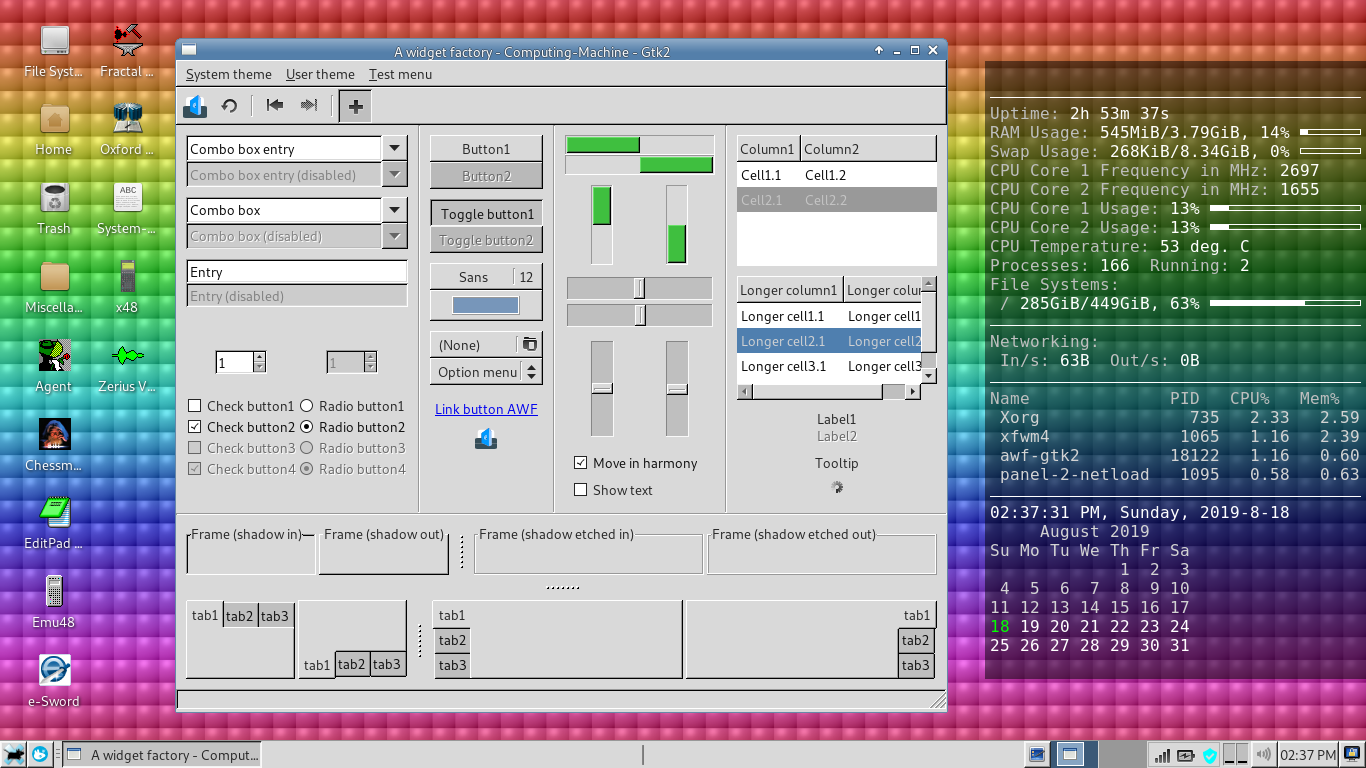
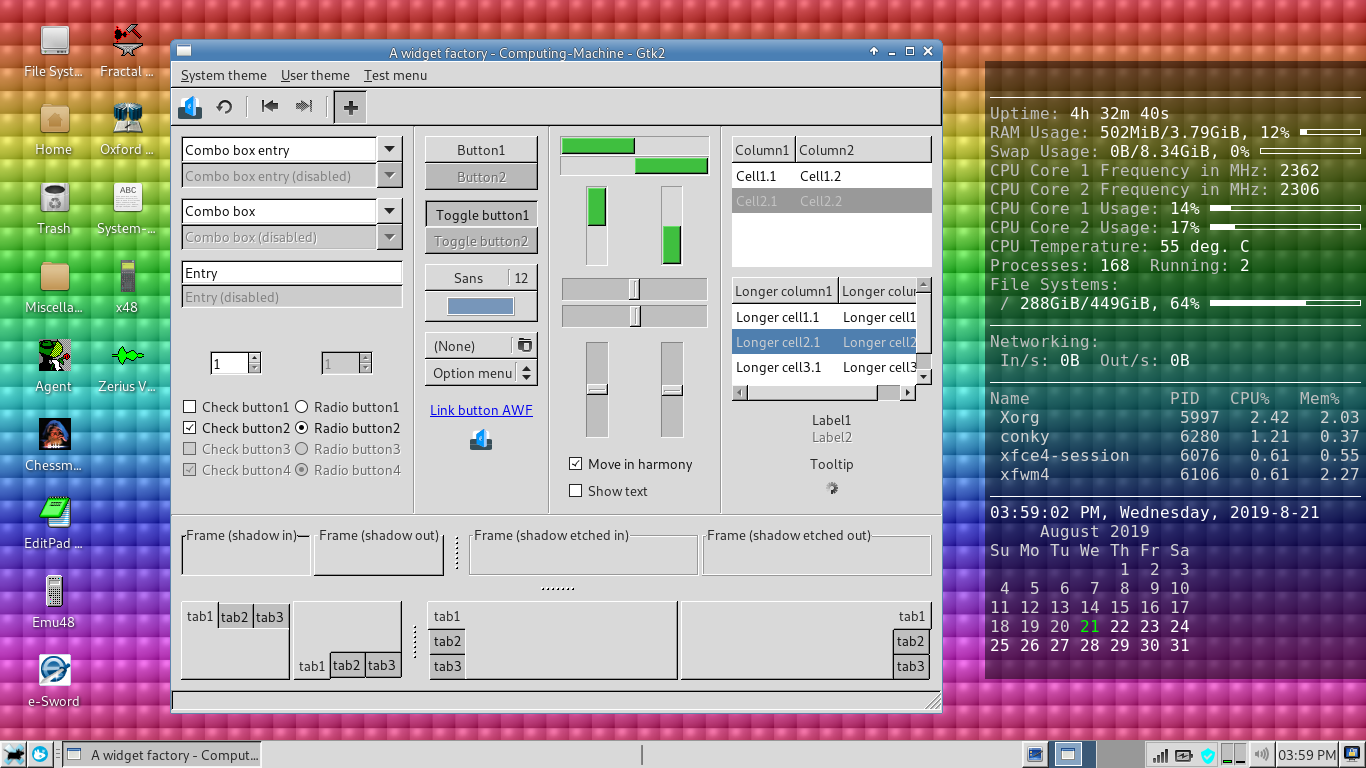
Additional commit

diff --git a/Computing-Machine/gtk-3.0/gtk.css b/Computing-Machine/gtk-3.0/gtk.css
@@ -61,6 +61,7 @@ color definitions
 /* widget colors */
 @define-color titlebar_bg_color #4a7fb4;
 @define-color titlebar_fg_color #ffffff;
+@define-color titlebar_inactive_color #b9b9b9;
 
 @define-color menubar_bg_color @dark_bg_color;
 @define-color menubar_fg_color @dark_fg_color;
@@ -624,7 +625,7 @@ calendar
 **********
 */
 calendar {
-  padding: 4px;
+  padding: 3px;
 }
 
 calendar:indeterminate {
@@ -636,7 +637,9 @@ calendar.header,
 calendar button,
 calendar button:hover,
 calendar button:disabled {
-  border-width: 0;
+  border-width: 1px;
+  border-style: solid;
+  border-color: #999999;
   background-color: transparent;
   background-image: none;
 }
@@ -1793,18 +1796,8 @@ scale.vertical slider {
   min-width: 21px;
 }
 
-scale slider:disabled {
-  border-radius: 0px;
-  background-image: url("assets/slider-horiz.png");
-}
-
 /* vertical sliders */
 scale.vertical slider {
-  border-radius: 0px;
-  background-image: url("assets/slider-vert.png");
-}
-
-scale.vertical slider:disabled {
   border-radius: 0px;
   background-image: url("assets/slider-vert.png");
 }
@@ -1824,24 +1817,16 @@ scale marks {
 
 scale marks.top,
 scale.fine-tune marks.top {
-  margin-bottom: 6px;
   margin-top: -12px;
+  margin-bottom: 6px;
+  margin-left: -12px;
+  margin-right: 6px;
 }
 
 scale marks.bottom,
 scale.fine-tune marks.bottom {
   margin-top: 6px;
   margin-bottom: -12px;
-}
-
-scale marks.top,
-scale.fine-tune marks.top {
-  margin-right: 6px;
-  margin-left: -12px;
-}
-
-scale marks.bottom,
-scale.fine-tune marks.bottom {
   margin-left: 6px;
   margin-right: -12px;
 }
@@ -1858,6 +1843,7 @@ scale.vertical indicator {
 
 scale trough {
   padding: 0;
+  margin: 9px 6px;
   border-width: 1px;
   border-radius: 0px;
   border-style: solid;
@@ -1871,15 +1857,10 @@ scale trough {
     inset 0 1px @inset_dark,
     inset -1px 0 @inset_light,
     inset 0 -1px @inset_light;
-  margin: 9px 6px;
 }
 
 scale trough.vertical {
   margin: 6px 9px;
-}
-
-scale highlight {
-  background-color: transparent;
 }
 
 scale trough:disabled,
@@ -1892,6 +1873,11 @@ scale highlight:disabled {
     inset 0 1px @inset_dark,
     inset -1px 0 @inset_light,
     inset 0 -1px @inset_light;
+}
+
+/* this affects the left side of the scale trough: */
+scale highlight {
+  background-color: transparent;
 }
 
 /*
@@ -1971,7 +1957,7 @@ scrollbar.horizontal button.up {
   -gtk-icon-source: -gtk-icontheme("pan-start-symbolic");
 }
 
-/* affects the Pamac package-manager's main-window (i.e., programs list) vertical scrollbar */
+/* affects the Whisker Menu's main-window (i.e., programs list) vertical scrollbar */
 treeview ~ scrollbar.vertical {
   border-top: 1px solid transparent;
   margin-top: -1px;
@@ -3223,13 +3209,11 @@ headerbar .subtitle {
 }
 
 headerbar .title:backdrop,
-headerbar .subtitle:backdrop {
-  text-shadow: none;
-}
-
+headerbar .subtitle:backdrop,
 .titlebar:backdrop,
 headerbar.titlebar:backdrop {
-  color: mix(@titlebar_fg_color, @titlebar_bg_color, 0.4);
+  background-color: @titlebar_inactive_color;
+  color: #656565;
   text-shadow: none;
 }
 
@@ -3259,22 +3243,8 @@ headerbar.titlebar:backdrop {
   font-weight: bold;
 }
 
-decoration {
-  border-style: none;
-  border-radius: 0;
-  box-shadow: 0 3px 7px 1px alpha(black, 0.7);
-  /* this is used for the resize cursor area: */
-  margin: 10px;
-}
-
 .tiled decoration {
   border-radius: 0;
-}
-
-/* server-side decoration (SSD) */
-.ssd decoration,
-.ssd decoration:backdrop {
-  background-color: @titlebar_bg_color;
 }
 
 /* client-side decorations (CSD) */
@@ -3284,22 +3254,16 @@ tooltip {
   box-shadow: none;
 }
 
-/* controls shadows around windows: */
+/* controls borders/shadows around windows: */
 decoration {
-  border-width: 0px;
-  box-shadow:
-    0 3px 9px 1px transparent,
-    0 0 0 1px rgba(0, 0, 0, 0.23);
-  margin: 10px;
+  margin: 1px;
+  border: none;
+  box-shadow: 0 0 0 1px @titlebar_bg_color;
 }
 
-/* controls shadows around windows: */
+/* controls borders/shadows around windows: */
 decoration:backdrop {
-  box-shadow:
-    0 3px 9px 1px transparent,
-    0 2px 6px 2px rgba(0, 0, 0, 0),
-    0 0 0 1px rgba(0, 0, 0, 0.18);
-  transition: 200ms ease-out;
+  box-shadow: 0 0 0 1px @titlebar_inactive_color;
 }
 
 .tiled decoration,
@@ -3313,15 +3277,19 @@ decoration:backdrop {
   box-shadow: none;
 }
 
-.ssd decoration {
+/* server-side decoration (SSD) */
+.ssd decoration,
+.ssd decoration:backdrop {
+  background-color: @titlebar_bg_color;
   border-radius: 0 0 0 0;
   box-shadow: 0 0 0 1px rgba(0, 0, 0, 0.23);
 }
 
+/* controls borders/shadows around pop-up menus: */
 .csd.popup decoration {
-  box-shadow:
-    0 1px 2px rgba(0, 0, 0, 0.2),
-    0 0 0 1px rgba(0, 0, 0, 0.13);
+  box-shadow: none;
+    /* 0 1px 2px rgba(0, 0, 0, 0.2),
+    0 0 0 1px rgba(0, 0, 0, 0.13); */
 }
 
 tooltip.csd decoration {
@@ -3340,20 +3308,13 @@ messagedialog.csd decoration {
 
 /* non-transparent CSD */
 .solid-csd decoration {
-  margin: 0;
-  padding: 4px;
-  background-color: @theme_bg_color;
-  border: solid 1px shade(@theme_bg_color, 0.8);
-  border-radius: 0;
-  box-shadow:
-    inset 0 0 0 3px black,
-    inset 0 1px rgba(20, 20, 20, 0.8);
+  margin: 1px;
+  border: none;
+  box-shadow: inset 0 0 0 1px @titlebar_bg_color;
 }
 
 .solid-csd decoration:backdrop {
-  box-shadow:
-    inset 0 0 0 3px black,
-    inset 0 1px rgba(20, 20, 20, 0.8);
+  box-shadow: inset 0 0 0 1px @titlebar_inactive_color;
 }
 
 /*
